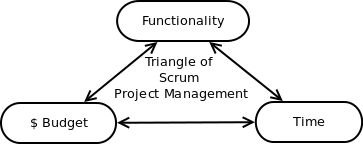
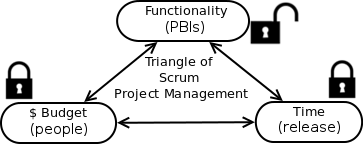
Add trade-off sub section into iron triangle

diff --git a/content/project_management.tex b/content/project_management.tex
@@ -29,8 +29,7 @@ En la etapa de inicio de proyecto ("Project Start") se puede hacer una “incept
 %Triangle of Project Management
 \subsection{Triángulo de la Gestión de proyectos}
 
-El marco de Scrum cambia el triángulo clásico de la gestión de proyectos. El compromiso ya no es entre el tiempo, presupuesto y calidad; sino que se basa en el triángulo de: Presupuesto (Costo), Tiempo y funcionalidad (alcance) (ver figura \ref{fig:ScrumProjectManagementTriangle}). Además, tradicionalmente se ha intentado fijar el alcance para negociar y variar el presupuesto y el tiempo. En cambio, desde la agilidad, se intenta mantener fijos el tiempo y el presupuesto mientras se varía el alcance\footnote{\cite{Martin-Alaimo-2014}}. La pregunta habitual es: ¿cuánto puedes hacer en este tiempo (bajo un costo fijo)?
-La ventaja de esta aproximación es que en vez de focalizarnos en plazos con fechas de entrega, nos centramos en desarrollar valor. ¿Cual es el máximo valor que podemos desarrollar en un tiempo dado?
+Bajo el marco de Scrum se cambia la idea relacionada al triángulo clásico de la gestión de proyectos (o triángulo de hierro). El compromiso ya no es entre el tiempo, presupuesto y calidad; sino que se basa en el triángulo de: presupuesto (costo), tiempo (agenda) y funcionalidad (alcance) (ver figura \ref{fig:ScrumProjectManagementTriangle}) \footnote{The iron triangle of planning, Atlassian, Tareq Aljaber, 2017.}. Además, tradicionalmente se ha intentado fijar el alcance para negociar y variar el presupuesto y el tiempo. En cambio, desde la perspectiva ágil, se intentan mantener fijos el tiempo y el presupuesto, mientras se varía el alcance\footnote{\cite{Martin-Alaimo-2014}}. Cuando consideramos el presupuesto fijo (costo del equipo), pretendemos mantener al equipo fijo (equipo estable). Pues se desea equipos estables que maduren, se fortalezcan y, en consecuencia, se transformen en equipos de alto rendimiento. Por otro lado, una manera de trabajar con tiempos fijos es que el equipo se comprometa a trabajar en iteraciones fijas (sprints). Además el equipo podría fijar releases o bloques temáticos dado un tiempo. Y esto no es trabajar bajo “deadlines”, ya que el enfoque no es trabajar orientados a fechas, sino a valor de negocio. Entonces nos queda el alcance, descompuesto en ítems de backlog, y la pregunta ahora es: ¿cuánto puedes hacer en este tiempo y bajo un costo fijo para alcanzar los objetivos de negocio?
 
 \begin{figure}[h]
   \centering
@@ -40,9 +39,18 @@ La ventaja de esta aproximación es que en vez de focalizarnos en plazos con fec
   \label{fig:ScrumProjectManagementTriangle} %\ref{fig:ScrumProjectManagementTriangle}
 \end{figure}
 
+\subsubsection{Priorización trade-off}
+
+La ventaja de esta aproximación es que en vez de focalizarnos en plazos con fechas de entrega, nos centramos en desarrollar valor. ¿Cual es el máximo valor que podemos desarrollar en un tiempo dado? Aquí entra el concepto de priorización trade-off, que se lleva a cabo en la ejecución del proyecto (o construcción de un producto). Trade-off es un acuerdo en el cual se deja algo fuera para priorizar otra cosa que se desea más. Pues, ante cambios, se prioriza un ítem reemplazando por otro de esfuerzo semejante para cumplir con entregar valor. Si en una iteración llega un cambio rompe fila, entonces vemos qué podemos sacar del sprint con mismo peso de esfuerzo. Lo mismo si queremos cumplir con un objetivo deseado en un tiempo planificado y necesitamos introducir un nuevo trabajo, pues revisaremos qué podemos sacar de esfuerzo semejante y cuyo valor podemos despriorizar en relación al cambio deseado.
+
+Como vemos, aquí el enfoque viró rotundamente en relación a la administración clásica. En vez de asfixiar a los equipos para que lleguen a cumplir con una fecha, por lo general impuesta arbitrariamente, se les permite tener cierta autonomía (con un responsable de negocio) para que prioricen qué valor de negocio pueden entregar, para un objetivo planeado, con colaboración y participación del equipo mismo.
+
+Bien, para que haya trade-off debe haber planificación. Pues siguiendo la disciplina de Scrum se planifica bastante. A continuación vemos este tema.
+
+
 \subsection{Planificación de entregables}
 
-Con este marco de trabajo tampoco es necesario hacer una entrega final (o "releasing") ya que se pueden hacer entregas paulatinas. En cada sprint se puede entregar valor. Para hacer entregas intermedias planificadas se puede crear un plan de muy alto nivel para múltiples Sprints durante una planificación de lanzamientos (por ejemplo en una inception) llamado "Release Plan". Este plan de entregables o de lanzamientos es una guía con la que se pretende reflejar las expectativas sobre qué funcionalidad se implementará y cuándo, aproximadamente, se completará \footnote{\cite{Scrum-Institute-2015}}. También sirve como una base para monitorear el progreso dentro del proyecto. Pero siempre hay que considerar que no es un plan equivalente a un plan clásico, los hitos de releases no deberían ser compromisos rígidos y contractuales y, además, el desarrollo del proyecto no debería centrarse en respetar el plan. Por este motivo el plan de lanzamiento no es un plan estático; pues, se cambia durante todo el proyecto cuando nuevos requerimientos o conocimientos están disponible y, por ejemplo, cuando entradas en el Scrum Product Backlog cambian y se re-estiman. Por lo tanto, este plan debe ser revisado y actualizado en intervalos regulares, por ejemplo, después de cada Sprint.
+Con este marco de trabajo tampoco es necesario hacer una entrega final (o "releasing") ya que se pueden hacer entregas paulatinas. En cada Sprint se puede entregar valor según lo planificado dentro del mismo sprint (planning). Además, para hacer diversas entregas intermedias planificadas se puede crear un plan de muy alto nivel para múltiples Sprints durante una planificación de lanzamientos (por ejemplo en una inception) llamado "Release Plan". Este plan de entregables o de lanzamientos es una guía con la que se pretende reflejar las expectativas sobre qué funcionalidad se implementará y cuándo, aproximadamente, se completará \footnote{\cite{Scrum-Institute-2015}}. También sirve como una base para monitorear el progreso dentro del proyecto. Pero siempre hay que considerar que no es un plan equivalente a un plan clásico, los hitos de releases no deberían ser compromisos rígidos y contractuales y, además, el desarrollo del proyecto no debería centrarse en respetar el plan. Por este motivo el plan de lanzamiento no es un plan estático o rígido; pues, se cambia durante todo el proyecto cuando nuevos requerimientos o conocimientos están disponible y, por ejemplo, cuando entradas PBIs en el Scrum Product Backlog cambian y se re-estiman. Por lo tanto, este plan debe ser revisado y actualizado colaborativamente en intervalos regulares, por ejemplo, después de cada Sprint (en refinamientos o reuniones acordadas).
 
 \subsubsection{Release Plan Ágil}
 
@@ -101,4 +109,3 @@ La gestión de riesgos no es independiente de la gestión de impedimento o de pr
 \end{figure}
 
 Las herramientas gráficas útiles para dicha gestión son: “Tablero de Obstáculos” (obstacle board) o el "Calendario de Obstáculos" (Issues calendars).
-

diff --git a/content/second_page.tex b/content/second_page.tex
@@ -34,7 +34,7 @@
 
 % Version of Build or PDF version
 Primera edición, versión 1.0.0, 2015, Córdoba, Argentina.
-Segunda edición, versión 2.0.0, 9 de Diciembre de 2017, Santiago de Chile.
+Segunda edición, versión 2.0.0, 17 de Diciembre de 2017, Santiago de Chile.
 
 % License text message
 \input{content/license_message}
